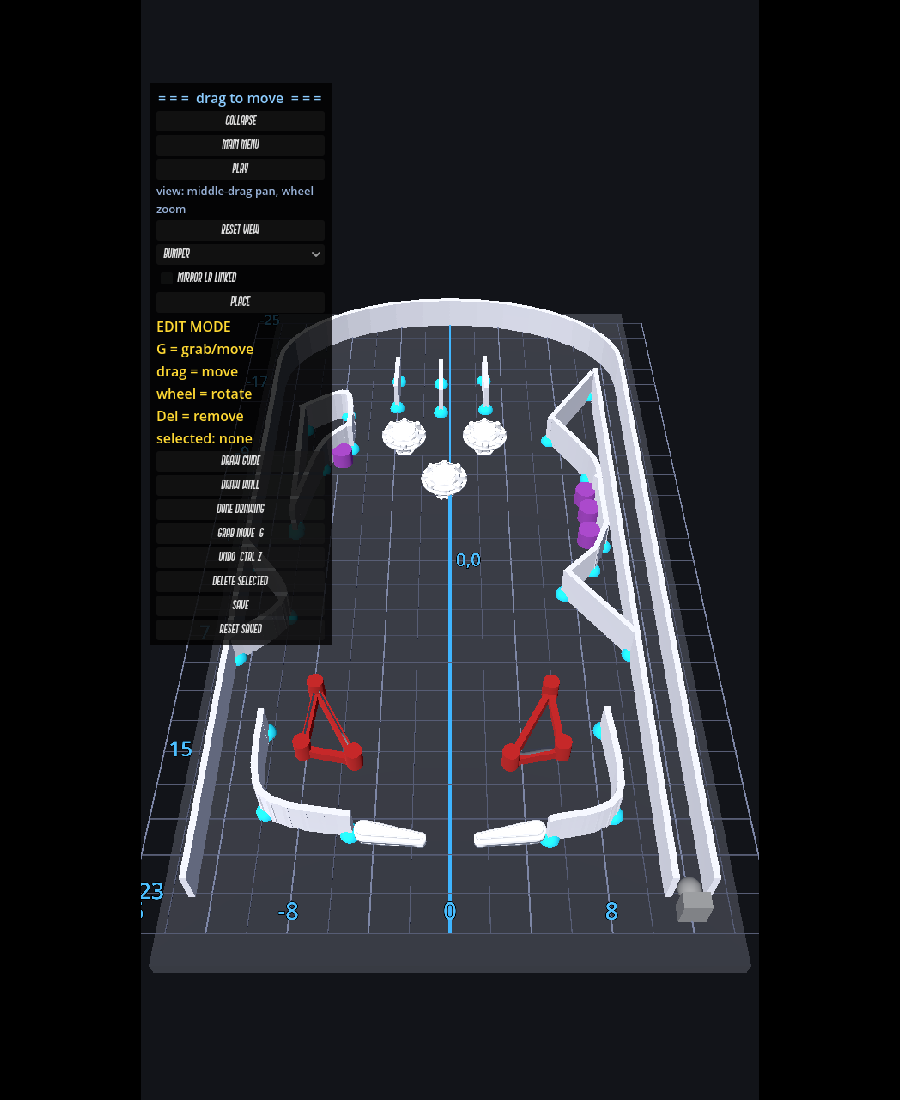
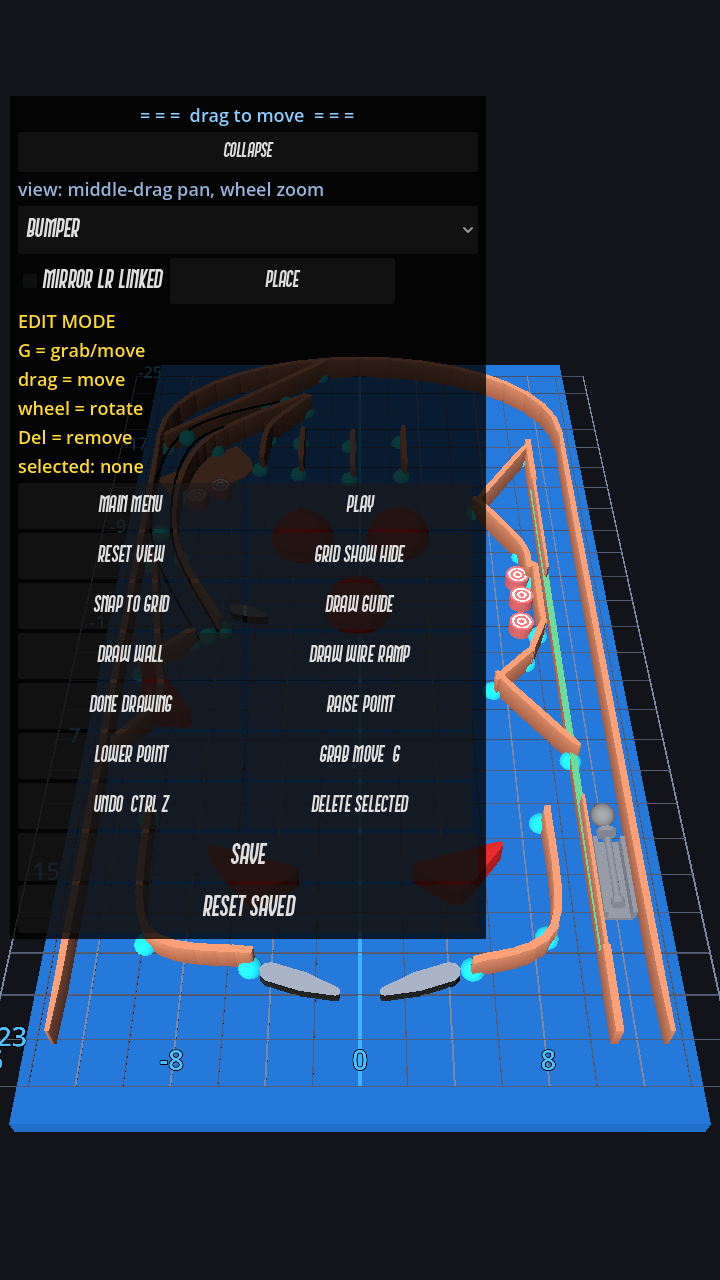
docs(readme): refresh the public repo face for the Kenney art baseline
The README still described a gray-box prototype and credited pinball-parts
for pop bumper and flipper models that are original work now. Lead with the
Kenney CC0 baseline plus the custom same-style scoring furniture, keep the
CC BY-SA attribution for the editor parts that still derive from
pinball-parts, refresh the three screenshots from the current build, and
mark the removed custom element family as historical in CREDITS.md.

diff --git a/CREDITS.md b/CREDITS.md
@@ -6,18 +6,16 @@ goes into assets/ without a line in this file.
 
 ## 3D models
 
-### Custom low-poly element family (assets/models/)
-Files: `flipper_bat.glb`, `mini_flipper.glb`, `pop_bumper.glb`, `launcher.glb`, `wall.glb`.
-- Source: original low-poly models created in Blender for this project (the matched stylized
-  flat-shaded blue-cap family). They REPLACE the earlier borrowed art (the vbousquet/pinball-parts
-  flipper bat and the older bumper_body.glb, both removed from the repo).
+### Custom low-poly element family - REMOVED FROM THE REPO
+Files (no longer present): `flipper_bat.glb`, `mini_flipper.glb`, `pop_bumper.glb`, `launcher.glb`,
+`wall.glb`.
+- History: original low-poly models created in Blender for this project (the matched stylized
+  flat-shaded blue-cap family). They replaced the earlier borrowed art (the vbousquet/pinball-parts
+  flipper bat and the older bumper_body.glb), and were themselves removed in the Kenney art swap
+  (2026-07): the visible table now uses the Kenney baseline packs plus the custom Kenney-style
+  assets listed below, and the flippers render procedurally in code. The files remain recoverable
+  via git history; no shipped build contains them.
 - License: original project work; no third-party attribution required.
-- Modified: exported to glTF 2.0 .glb. The art carries NO collision geometry: every element's collider
-  is a primitive shape built in code (the flipper / mini-flipper convex hull, the pop bumper
-  CylinderShape3D, the wall BoxShape3D) or, for the launcher, the AnimatableBody3D strike face. Object
-  names: flipper_bat (Flipper_Bat, Flipper_Rubber); mini_flipper (Flipper_Bat_Mini, Flipper_Rubber_Mini);
-  pop_bumper (Bumper_Base, Bumper_Body, Bumper_Cap); launcher (Box_* housing +
-  Plunger_Anim{Rod,Tip,Clip} + Plunger_Spring); wall (Wall_Body, Wall_Cap).
 
 ### Kenney asset packs (assets/kenney/baseline/)
 Files: every model, texture, UI image, font, and audio clip under `assets/kenney/baseline/`

diff --git a/README.md b/README.md
@@ -1,8 +1,10 @@
 # Pinball (working title)
 
 A physics-first 3D pinball game in Godot 4 (GDScript), targeting a commercial Steam release. The
-current build is a playable gray-box prototype with an in-browser table editor: you build the table
-yourself by placing parts on a grid, then switch to Play.
+current build is a playable prototype in a stylized low-poly look built on Kenney's CC0 asset packs
+(models, textures, UI, fonts, audio) plus custom models authored in the same style, with an
+in-browser table editor: you build the table yourself by placing parts on a grid, then switch to
+Play.
 
 ## Screenshots
 
@@ -72,5 +74,8 @@ homelab (label `godot`) does every build and test. The laptop never holds Godot 
 
 ## Credits
 
-Third-party assets and their licenses are listed in `CREDITS.md`. Some pop-bumper and flipper models
+Third-party assets and their licenses are listed in `CREDITS.md`. The art, UI, fonts, and audio are
+mostly from [Kenney](https://kenney.nl) asset packs (CC0), with the remaining scoring furniture
+(mushroom pop bumper, slingshot wedges, bullseye targets) modelled from scratch for this project in
+the same style. Some editor-placeable parts (wire guides, rails, lane guides, drop/react targets)
 are derived from vbousquet/pinball-parts (CC BY-SA 4.0).